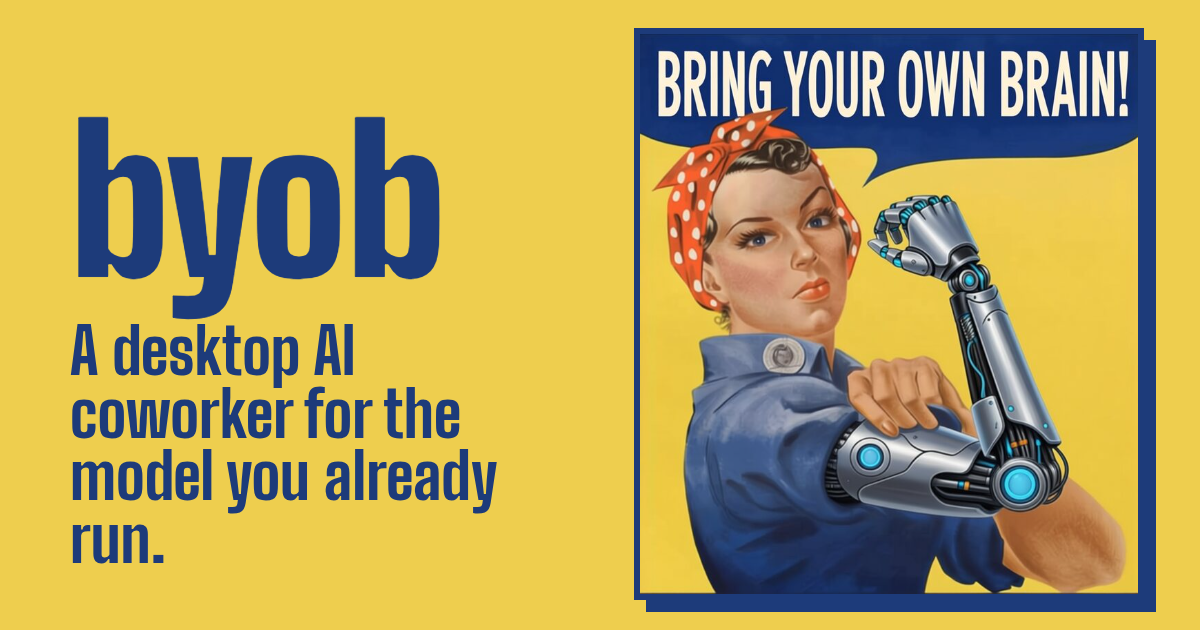
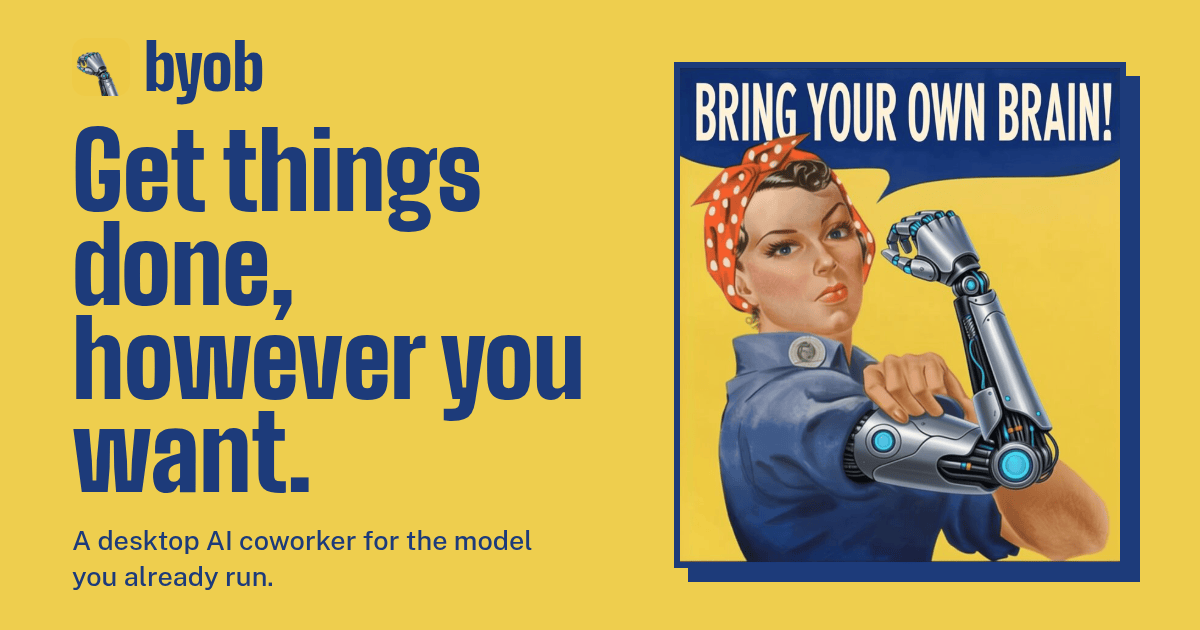
byob.chat: What it does before Make it look like anything (apps and plugins answer "however you want" first; the looks close), the submarine first among the looks, the slogans on paper so sections alternate, Claude and ChatGPT first in the servers stripe (Claude Code and Codex found too), videos wai

diff --git a/site/index.html b/site/index.html
@@ -21,8 +21,8 @@
 <header class="top">
   <a class="mark" href="/"><img src="icon-96.png" alt="" width="36" height="36">byob</a>
   <nav>
-    <a href="#looks">Make it yours</a>
     <a href="#what">What it does</a>
+    <a href="#looks">Make it yours</a>
     <a href="#faq">FAQ</a>
     <a href="https://github.com/Scronkfinkle/byob">GitHub</a>
     <a class="nav-dl" href="#install">Download</a>
@@ -70,67 +70,6 @@
     <li><b>Native.</b> One program for Linux, macOS and Windows, drawn on the GPU. No Electron.</li>
     <li><b>Open source.</b> MIT or Apache-2.0. Read it, fork it, or ask byob to extend it.</li>
   </ul>
-</section>
-
-<section class="looks" id="looks">
-  <h2>Make it look like anything</h2>
-  <p class="lede">Ask in plain words, or press F2 and change it yourself. Every element on screen,
-    down to a single button, can be moved, resized, recolored or hidden.</p>
-
-  <input type="radio" name="look" id="look-light" checked>
-  <input type="radio" name="look" id="look-dark">
-  <input type="radio" name="look" id="look-backdrop">
-  <input type="radio" name="look" id="look-fluid">
-  <input type="radio" name="look" id="look-edit">
-
-  <div class="asks" role="group" aria-label="Pick a look">
-    <label for="look-light">“Keep it light.”</label>
-    <label for="look-dark">“Make it dark.”</label>
-    <label for="look-backdrop">“Make it the control room of a deep-sea research submarine. Go big.”</label>
-    <label for="look-fluid">“Move the model picker up top and put a watering timer under my chats.”</label>
-    <label for="look-edit">Or press F2</label>
-  </div>
-
-  <div class="frames">
-    <figure class="f-light">
-      <img src="media/look-light.png" width="1100" height="620" loading="lazy" alt="byob in its light theme, the harvest chart inline in the chat">
-      <figcaption>The light theme, as byob starts. Settings → Appearance has more (Nord, Gruvbox,
-        Solarized, Dracula, Tokyo Night, Rosé Pine), any accent, corners, text size and
-        spacing.</figcaption>
-    </figure>
-    <figure class="f-dark">
-      <img src="media/look-dark.png" width="1100" height="620" loading="lazy" alt="The same chat in byob's dark theme, the chart shown inline">
-      <figcaption>The same chat in the dark theme. Looks are kept per device, so the phone can
-        stay light while the desktop goes dark.</figcaption>
-    </figure>
-    <figure class="f-backdrop">
-      <video autoplay muted loop playsinline preload="metadata" width="1100" height="620"
-        aria-label="Recorded: byob is asked for a deep-sea submarine control room and turns its light window into dark glass panels in metal frames with stamped labels, HUD controls and a living deep-ocean shader behind them">
-        <source src="media/look-theme.webm" type="video/webm">
-        <source src="media/look-theme.mp4" type="video/mp4">
-      </video>
-      <figcaption>One request, recorded live (the model's thinking is sped up): byob picks the
-        palette, writes a deep-ocean shader for behind the glass, frames each panel in metal with
-        stamped labels, switches to HUD controls, then checks a screenshot of its own work.</figcaption>
-    </figure>
-    <figure class="f-fluid">
-      <img src="media/look-fluid.png" width="1100" height="620" loading="lazy" alt="byob after the request: the model picker sits in the header beside Memory, and a running watering timer with Restart and Stop sits under the chats in the sidebar">
-      <figcaption>Asked for real: byob lists what's on screen, moves the picker, adds a timer that
-        counts down under the chats, then checks a screenshot of the window and fixes what it
-        got wrong. New elements like the timer keep their own state.</figcaption>
-    </figure>
-    <figure class="f-edit">
-      <video autoplay muted loop playsinline preload="metadata" width="1100" height="620"
-        aria-label="Recorded: F2 opens the editor; Plugins is dragged onto New chat and Library onto Search, and the sidebar's buttons trade places">
-        <source src="media/fluid-edit.webm" type="video/webm">
-        <source src="media/fluid-edit.mp4" type="video/mp4">
-      </video>
-      <figcaption>F2 opens the editor. Drag anything; with Alt, drop it on another element's middle
-        to swap the two, or on an edge to keep it beside that one. Here the sidebar's buttons
-        trade places. The inspector sets text, colors and motion, and an arrangement can be
-        saved as a scene.</figcaption>
-    </figure>
-  </div>
 </section>
 
 <section class="what" id="what">
@@ -199,12 +138,68 @@
   </div>
 </section>
 
+<section class="looks" id="looks">
+  <h2>Make it look like anything</h2>
+  <p class="lede">Ask in plain words, or press F2 and change it yourself. Every element on screen,
+    down to a single button, can be moved, resized, recolored or hidden.</p>
+
+  <input type="radio" name="look" id="look-backdrop" checked>
+  <input type="radio" name="look" id="look-fluid">
+  <input type="radio" name="look" id="look-edit">
+  <input type="radio" name="look" id="look-dark">
+
+  <div class="asks" role="group" aria-label="Pick a look">
+    <label for="look-backdrop">“Make it the control room of a deep-sea research submarine. Go big.”</label>
+    <label for="look-fluid">“Move the model picker up top and put a watering timer under my chats.”</label>
+    <label for="look-dark">“Make it dark.”</label>
+    <label for="look-edit">Or press F2</label>
+  </div>
+
+  <div class="frames">
+    <figure class="f-dark">
+      <img src="media/look-dark.png" width="1100" height="620" loading="lazy" alt="The same chat in byob's dark theme, the chart shown inline">
+      <figcaption>The same chat in the dark theme. Settings → Appearance has more themes (Nord,
+        Gruvbox, Solarized, Dracula, Tokyo Night, Rosé Pine), any accent, corners, text size and
+        spacing, and looks are kept per device: the phone can stay light while the desktop goes
+        dark.</figcaption>
+    </figure>
+    <figure class="f-backdrop">
+      <video autoplay muted loop playsinline preload="metadata" width="1100" height="620"
+        aria-label="Recorded: byob is asked for a deep-sea submarine control room and turns its light window into dark glass panels in metal frames with stamped labels, HUD controls and a living deep-ocean shader behind them">
+        <source src="media/look-theme.webm" type="video/webm">
+        <source src="media/look-theme.mp4" type="video/mp4">
+      </video>
+      <figcaption>One request, recorded live (the model's thinking is sped up): byob picks the
+        palette, writes a deep-ocean shader for behind the glass, frames each panel in metal with
+        stamped labels, switches to HUD controls, then checks a screenshot of its own work.</figcaption>
+    </figure>
+    <figure class="f-fluid">
+      <img src="media/look-fluid.png" width="1100" height="620" loading="lazy" alt="byob after the request: the model picker sits in the header beside Memory, and a running watering timer with Restart and Stop sits under the chats in the sidebar">
+      <figcaption>Asked for real: byob lists what's on screen, moves the picker, adds a timer that
+        counts down under the chats, then checks a screenshot of the window and fixes what it
+        got wrong. New elements like the timer keep their own state.</figcaption>
+    </figure>
+    <figure class="f-edit">
+      <video autoplay muted loop playsinline preload="metadata" width="1100" height="620"
+        aria-label="Recorded: F2 opens the editor; Plugins is dragged onto New chat and Library onto Search, and the sidebar's buttons trade places">
+        <source src="media/fluid-edit.webm" type="video/webm">
+        <source src="media/fluid-edit.mp4" type="video/mp4">
+      </video>
+      <figcaption>F2 opens the editor. Drag anything; with Alt, drop it on another element's middle
+        to swap the two, or on an edge to keep it beside that one. Here the sidebar's buttons
+        trade places. The inspector sets text, colors and motion, and an arrangement can be
+        saved as a scene.</figcaption>
+    </figure>
+  </div>
+</section>
+
 <section class="servers">
-  <h2>It finds the server you already have</h2>
+  <h2>It finds what you already have</h2>
   <ul>
-    <li>llama.cpp</li><li>Ollama</li><li>LM Studio</li><li>vLLM</li><li>Anthropic (Claude)</li><li>OpenAI-compatible APIs</li>
+    <li>Claude</li><li>ChatGPT</li><li>llama.cpp</li><li>Ollama</li><li>LM Studio</li><li>vLLM</li><li>any OpenAI-compatible API</li>
   </ul>
-  <p>On first run byob looks on their usual ports and offers presets for hosted APIs.</p>
+  <p>On first run byob looks for Claude Code and Codex (your plan) and for local servers on their
+    usual ports, and offers presets for hosted APIs.</p>
 </section>
 
 <section class="faq" id="faq">
@@ -311,11 +306,22 @@ byob --serve                 # also open it to browsers on http://127.0.0.1:7470
 </main>
 
 <footer>
-  <p>byob is free software under MIT or Apache-2.0.
-    <a href="https://github.com/Scronkfinkle/byob">Code, issues and docs on GitHub</a>.</p>
+  <p>byob is free software under MIT or Apache-2.0.</p>
+  <p class="links">
+    <a href="https://github.com/Scronkfinkle/byob">Code</a>
+    <a href="https://github.com/Scronkfinkle/byob/releases">Releases</a>
+    <a href="https://github.com/Scronkfinkle/byob/tree/main/docs">Docs</a>
+    <a href="https://github.com/Scronkfinkle/byob/issues">Issues</a>
+  </p>
 </footer>
 
 <script>
+// Less motion when the system asks for it: the videos wait to be played.
+if (window.matchMedia && matchMedia("(prefers-reduced-motion: reduce)").matches) {
+  document.querySelectorAll("video[autoplay]").forEach(function (v) {
+    v.removeAttribute("autoplay"); v.pause(); v.controls = true; v.preload = "metadata";
+  });
+}
 // The download buttons fetch this computer's build (they link to the list of downloads
 // otherwise, and on phones).
 (function () {

diff --git a/site/style.css b/site/style.css
@@ -128,7 +128,7 @@ figcaption { font-size: 0.9375rem; margin-top: 0.75rem; max-width: 40em; }
 .demo figcaption { color: #d8deec; }
 
 /* ---------- slogans: four stencil lines ---------- */
-.slogans { max-width: var(--wide); margin: 0 auto; padding: clamp(2.5rem, 6vw, 4rem) var(--pad); }
+.slogans { background: var(--paper); padding: clamp(2.5rem, 6vw, 4rem) max(var(--pad), calc((100% - var(--wide)) / 2 + var(--pad))); }
 .slogans ul {
   list-style: none;
   margin: 0;
@@ -185,7 +185,6 @@ figcaption { font-size: 0.9375rem; margin-top: 0.75rem; max-width: 40em; }
   clip-path: polygon(100% 0, 100% 100%, 0 100%);
 }
 .asks label:hover { transform: translateY(-2px); }
-#look-light:checked ~ .asks [for="look-light"],
 #look-dark:checked ~ .asks [for="look-dark"],
 #look-backdrop:checked ~ .asks [for="look-backdrop"],
 #look-fluid:checked ~ .asks [for="look-fluid"],
@@ -194,7 +193,6 @@ figcaption { font-size: 0.9375rem; margin-top: 0.75rem; max-width: 40em; }
   color: var(--paper);
   box-shadow: 5px 5px 0 var(--red);
 }
-#look-light:focus-visible ~ .asks [for="look-light"],
 #look-dark:focus-visible ~ .asks [for="look-dark"],
 #look-backdrop:focus-visible ~ .asks [for="look-backdrop"],
 #look-fluid:focus-visible ~ .asks [for="look-fluid"],
@@ -205,7 +203,6 @@ figcaption { font-size: 0.9375rem; margin-top: 0.75rem; max-width: 40em; }
 .frames figure { display: none; max-width: 76rem; }
 .frames img, .frames video { border: 3px solid var(--navy); background: var(--navy); box-shadow: 10px 10px 0 var(--navy); }
 .frames figcaption { margin-top: 1.4rem; font-size: 1rem; }
-#look-light:checked ~ .frames .f-light,
 #look-dark:checked ~ .frames .f-dark,
 #look-backdrop:checked ~ .frames .f-backdrop,
 #look-fluid:checked ~ .frames .f-fluid,
@@ -320,6 +317,7 @@ pre code { font-size: inherit; }
 /* ---------- footer ---------- */
 footer { padding: 2rem var(--pad) 3rem; max-width: var(--wide); margin: 0 auto; font-size: 0.9375rem; }
 footer p { margin: 0; }
+footer .links { display: flex; flex-wrap: wrap; gap: 0.4rem 1.25rem; margin-top: 0.6rem; font-weight: 600; }
 
 /* ---------- narrow screens ---------- */
 @media (max-width: 56rem) {
